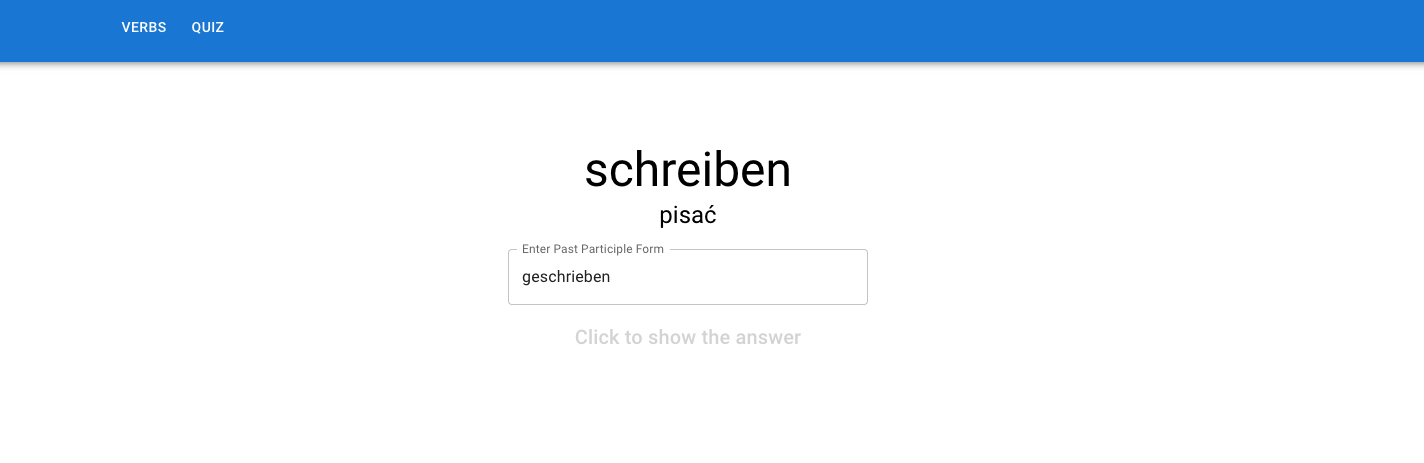
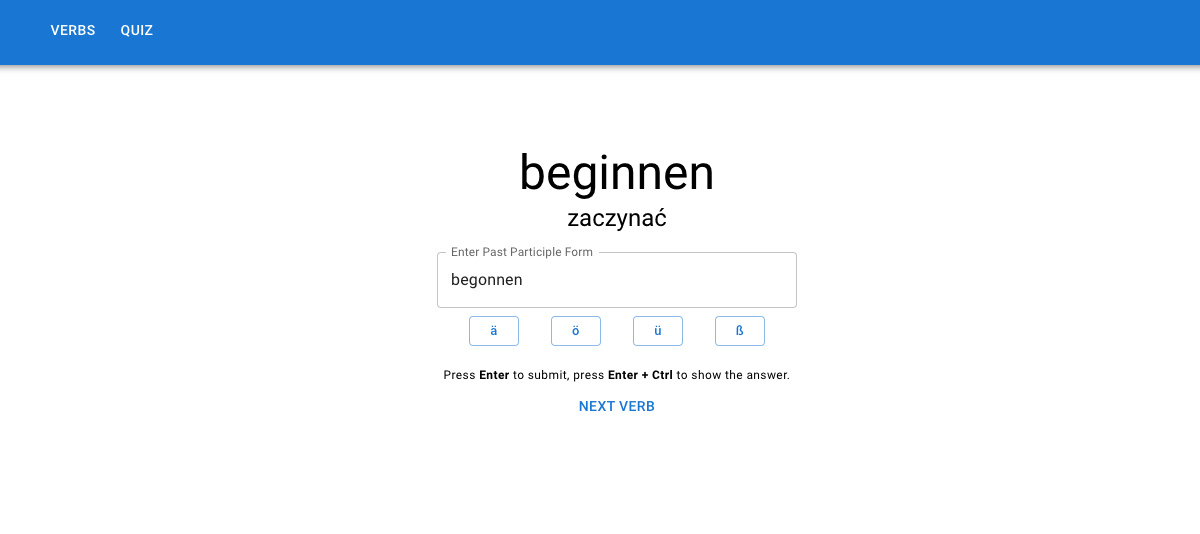
Add special characters buttons

diff --git a/src/views/quiz-view.jsx b/src/views/quiz-view.jsx
@@ -9,11 +9,14 @@ import {
   Button,
 } from "@mui/material";
 import { StoreContext } from "../store";
+import InsertSpecialCharBtn from "../comopnents/insert-special-char-btn";
 
 const getRandom = (max) => Math.floor(Math.random() * max);
 
+const inputWidth = "360px";
+
 const Input = styled(TextField)(() => ({
-  minWidth: "360px",
+  minWidth: inputWidth,
   "& .MuiTextField-root": {
     fontSize: 43,
   },
@@ -22,6 +25,18 @@ const Input = styled(TextField)(() => ({
     width: "100%",
   },
 }));
+
+const CharactersBox = styled(Box)(() => ({
+  display: "flex",
+  margin: "0 auto 20px",
+  justifyContent: "space-evenly",
+  width: inputWidth,
+  "@media (max-width: 680px)": {
+    width: "100%",
+  },
+}));
+
+const specialCharacters = ["ä", "ö", "ü", "ß"];
 
 function QuizView() {
   const [inputValue, setInputValue] = useState("");
@@ -92,6 +107,13 @@ function QuizView() {
     setInputValue(currentVerb.partizip_ii);
   };
 
+  const handleInsertSpecialCharacter = (specialCharacter) => {
+    if (specialCharacter) {
+      setInputValue(inputValue + specialCharacter);
+      document.getElementById("quiz-input").focus();
+    }
+  };
+
   if (selectedVerbs.length === 0) {
     return (
       <Container sx={{ textAlign: "center", marginTop: 10 }}>
@@ -134,7 +156,7 @@ function QuizView() {
         </Box>
         <Box sx={{ marginTop: 2, marginBottom: 1 }}>
           <Input
-            id="outlined-basic"
+            id="quiz-input"
             label="Enter Past Participle Form"
             variant="outlined"
             value={inputValue}
@@ -144,8 +166,16 @@ function QuizView() {
           />
         </Box>
       </form>
+      <CharactersBox>
+        {specialCharacters.map((specialCharacter) => (
+          <InsertSpecialCharBtn
+            specialCharacter={specialCharacter}
+            insertFn={handleInsertSpecialCharacter}
+          />
+        ))}
+      </CharactersBox>
       <Typography
-        sx={{ marginTop: 1, marginBottom: 2 }}
+        sx={{ marginTop: 1, marginBottom: 1 }}
         variant="caption"
         display="block"
       >

diff --git a/src/comopnents/insert-special-char-btn.jsx b/src/comopnents/insert-special-char-btn.jsx
@@ -1,0 +1,20 @@
+import React from "react";
+import { Button, styled, TextField } from "@mui/material";
+
+const ButtonStyled = styled(Button)(() => ({
+  textTransform: "lowercase",
+}));
+
+function InsertSpecialCharBtn({ specialCharacter, insertFn }) {
+  return (
+    <ButtonStyled
+      variant="outlined"
+      size="small"
+      onClick={() => insertFn(specialCharacter)}
+    >
+      {specialCharacter}
+    </ButtonStyled>
+  );
+}
+
+export default InsertSpecialCharBtn;
